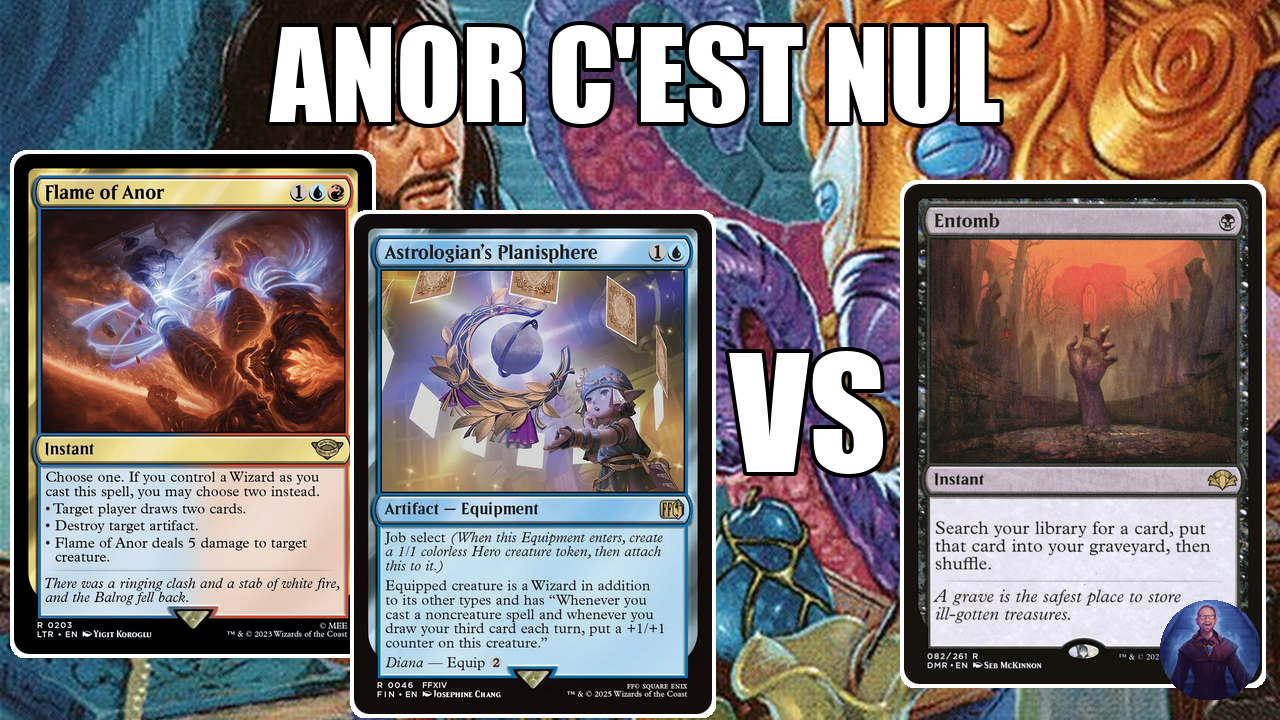
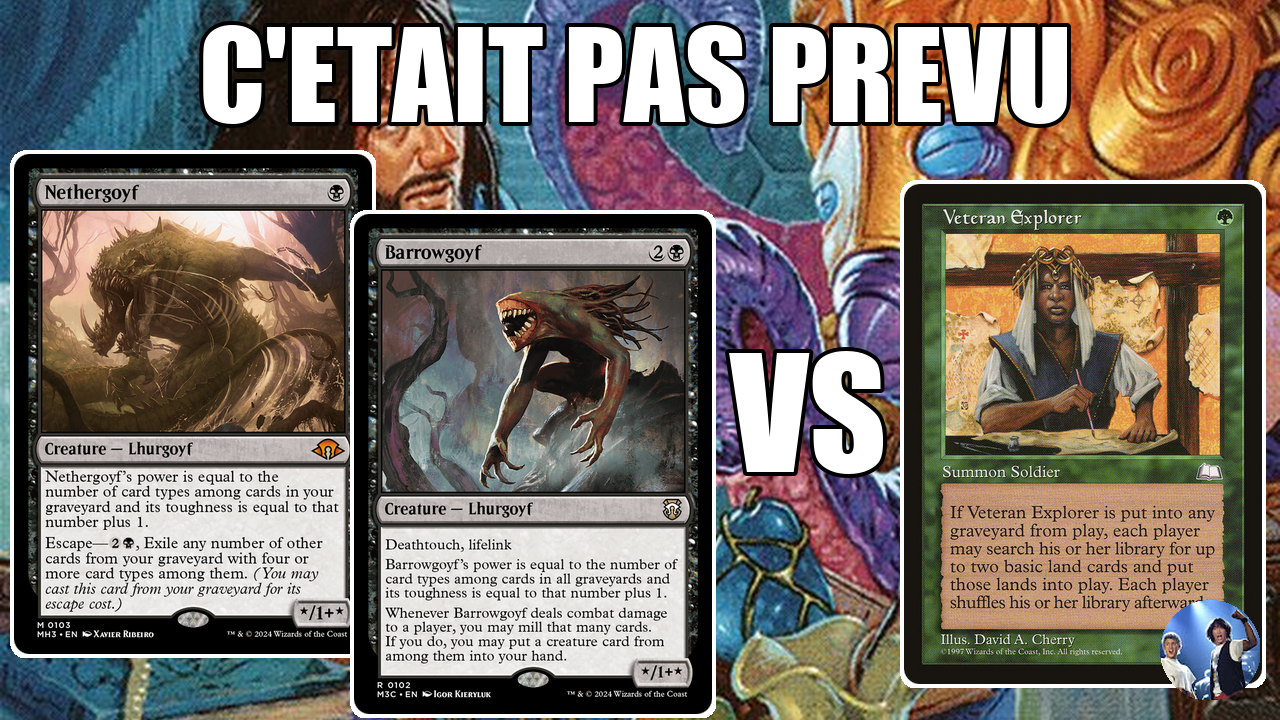
add bg with single title thumbnail

diff --git a/thReview.py b/thReview.py
@@ -1,0 +1,52 @@
+import functions
+
+# VARIABLE METADATA
+
+# VARIABLES THUMBNAIL
+title = "C'ETAIT PAS PREVU"
+title_size = 120
+bg_url = "https://cards.scryfall.io/art_crop/front/5/8/58dadc78-fe87-40ac-94cb-128716d89d74.jpg?1592713134"
+card_left_1_url = "https://cards.scryfall.io/png/front/3/e/3ee3945e-5089-4751-b7b3-5961c39d2a33.png?1717012040"
+card_left_2_url = "https://cards.scryfall.io/png/front/c/e/cea3b218-0e6e-443a-84f7-380f1021e8e1.png?1721158905"
+card_right_1_url = "https://cards.scryfall.io/png/front/b/d/bdac36f2-99ce-4d48-90fa-aa7439778ffc.png?1562803072"
+avatar_url = "https://yt3.googleusercontent.com/dScUCV-TMs0ccDN4ge8FV2WLjbIkw9ukoPLxp0uWwMrs-wtOEbIY3frBoocCBj_dl-SvVJf01Pw=s88-c-k-c0x00ffffff-no-rj" 
+
+
+
+
+
+
+bg = functions.load_png_cached(bg_url)
+card_left_1 = functions.load_png_cached(card_left_1_url)
+card_left_2 = functions.load_png_cached(card_left_2_url)
+card_right_1 = functions.load_png_cached(card_right_1_url)
+avatar = functions.load_png_cached(avatar_url)
+
+bg_resized, new_height = functions.resizeOnlyWidth(bg, 1280)
+bg_resized_cropped = functions.crop_height_centered(bg_resized, 720)
+
+
+
+cw = 500
+
+
+functions.drawTitleWidthCentered(bg_resized_cropped, title, "impact", title_size, y=0)
+
+img_final = functions.addCard(bg_resized_cropped, card_left_1, cw, 10, 150)
+img_final = functions.addCard(img_final, card_left_2, cw, 350, 210)
+
+functions.drawText(img_final, "VS", "impact", 150, x=730, y=320)
+
+img_final = functions.addCard(img_final, card_right_1, cw, 900, 180)
+
+
+
+img_final = functions.paste_circle_image(img_final, avatar, (img_final.width-120, img_final.height-120), 100)
+
+
+output_path = "thumbnail.png"
+# Save the image
+img_final.save(output_path, quality=95)
+
+img_final.show()
+

diff --git a/thCube.py b/thCube.py
@@ -1,0 +1,38 @@
+from PIL import Image, ImageDraw, ImageFont, ImageOps
+import os
+
+import functions
+
+# VARIABLE METADATA
+
+# VARIABLES THUMBNAIL
+title = "TERRIBLES MATCHS ?"
+title_size = 120
+bg_url = "https://cards.scryfall.io/art_crop/front/e/b/eb6d8d1c-8d23-4273-9c9b-f3b71eb0e105.jpg?1706240715"
+
+
+
+
+bg = functions.load_png_cached(bg_url)
+
+bg_resized, new_height = functions.resizeOnlyWidth(bg, 1280)
+bg_resized_cropped = functions.crop_height_centered(bg_resized, 720)
+
+
+
+cw = 500
+
+
+functions.drawTitleWidthCentered(bg_resized_cropped, title, "impact", title_size, y=80)
+
+
+
+img_final = bg_resized_cropped
+
+
+output_path = "thumbnail_cube.png"
+# Save the image
+img_final.save(output_path, quality=95)
+
+img_final.show()
+

diff --git a/metaReview.py b/metaReview.py
@@ -1,25 +1,16 @@
 import os
 import platform
 
-text = "Le TRISTE Constat"
-deck1 = "UR Wizard Painter" 
-deck2 = "UB Reanimator"
-
 format = "Legacy"
+text = "Ce Match Up n'existe pas"
+deck1 = "Mono Black Aggro" 
+deck2 = "Jund Nic Fit"
 
-youtuberName = "BoshNRoll"
-videoLink = "https://www.youtube.com/watch?v=wY4_hOTpH3c"
-channelLink = "https://www.youtube.com/@BoshNRoll"
+youtuberName = "BeExcellent"
+videoLink = "https://www.youtube.com/watch?v=54sD5qL9h84"
+channelLink = "https://www.youtube.com/@BeExcellent80s"
 
-Title = f"{text} - {deck1} vs {deck2} - League Review"
-
-
-
-
-
-
-
-
+Title = f"{text} - {deck1} vs {deck2} - {format} League Review"
 
 
 
